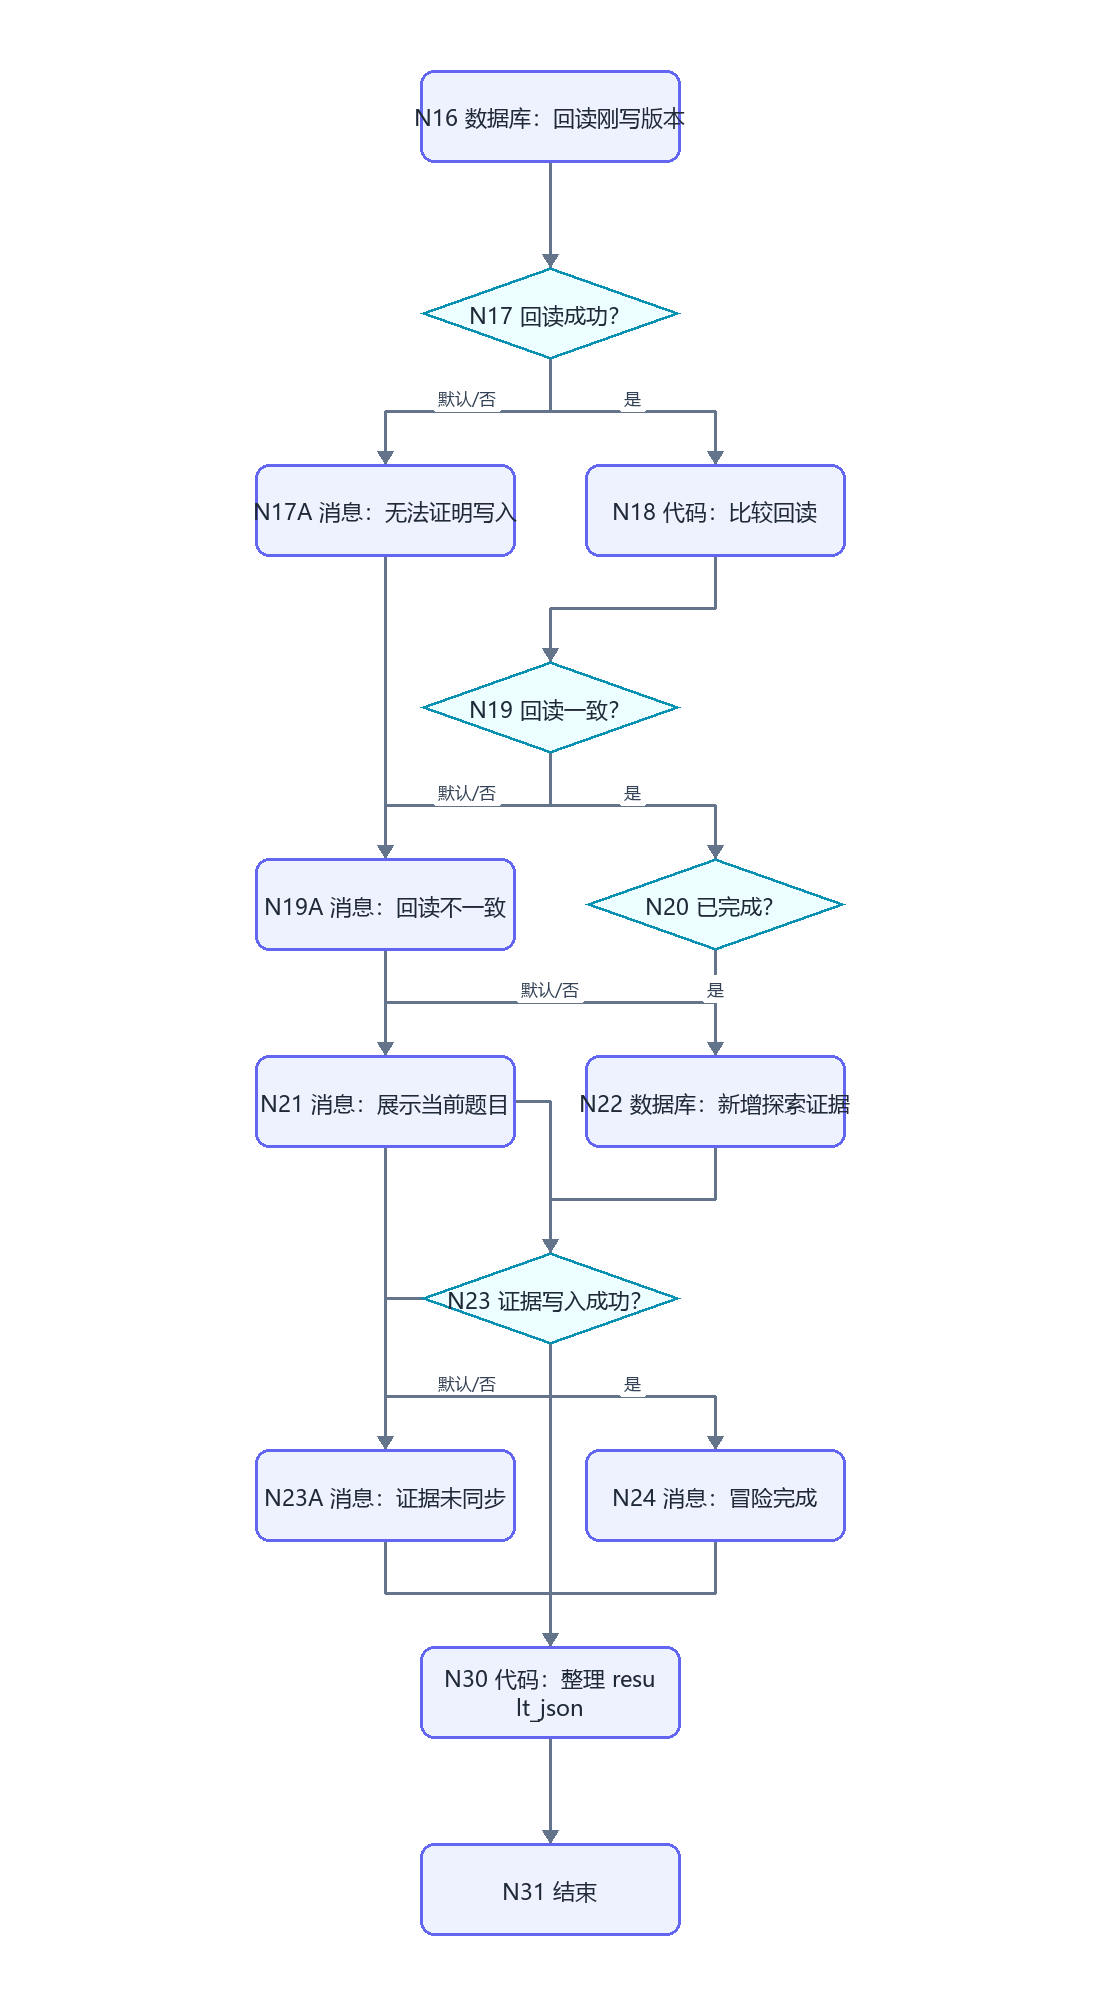
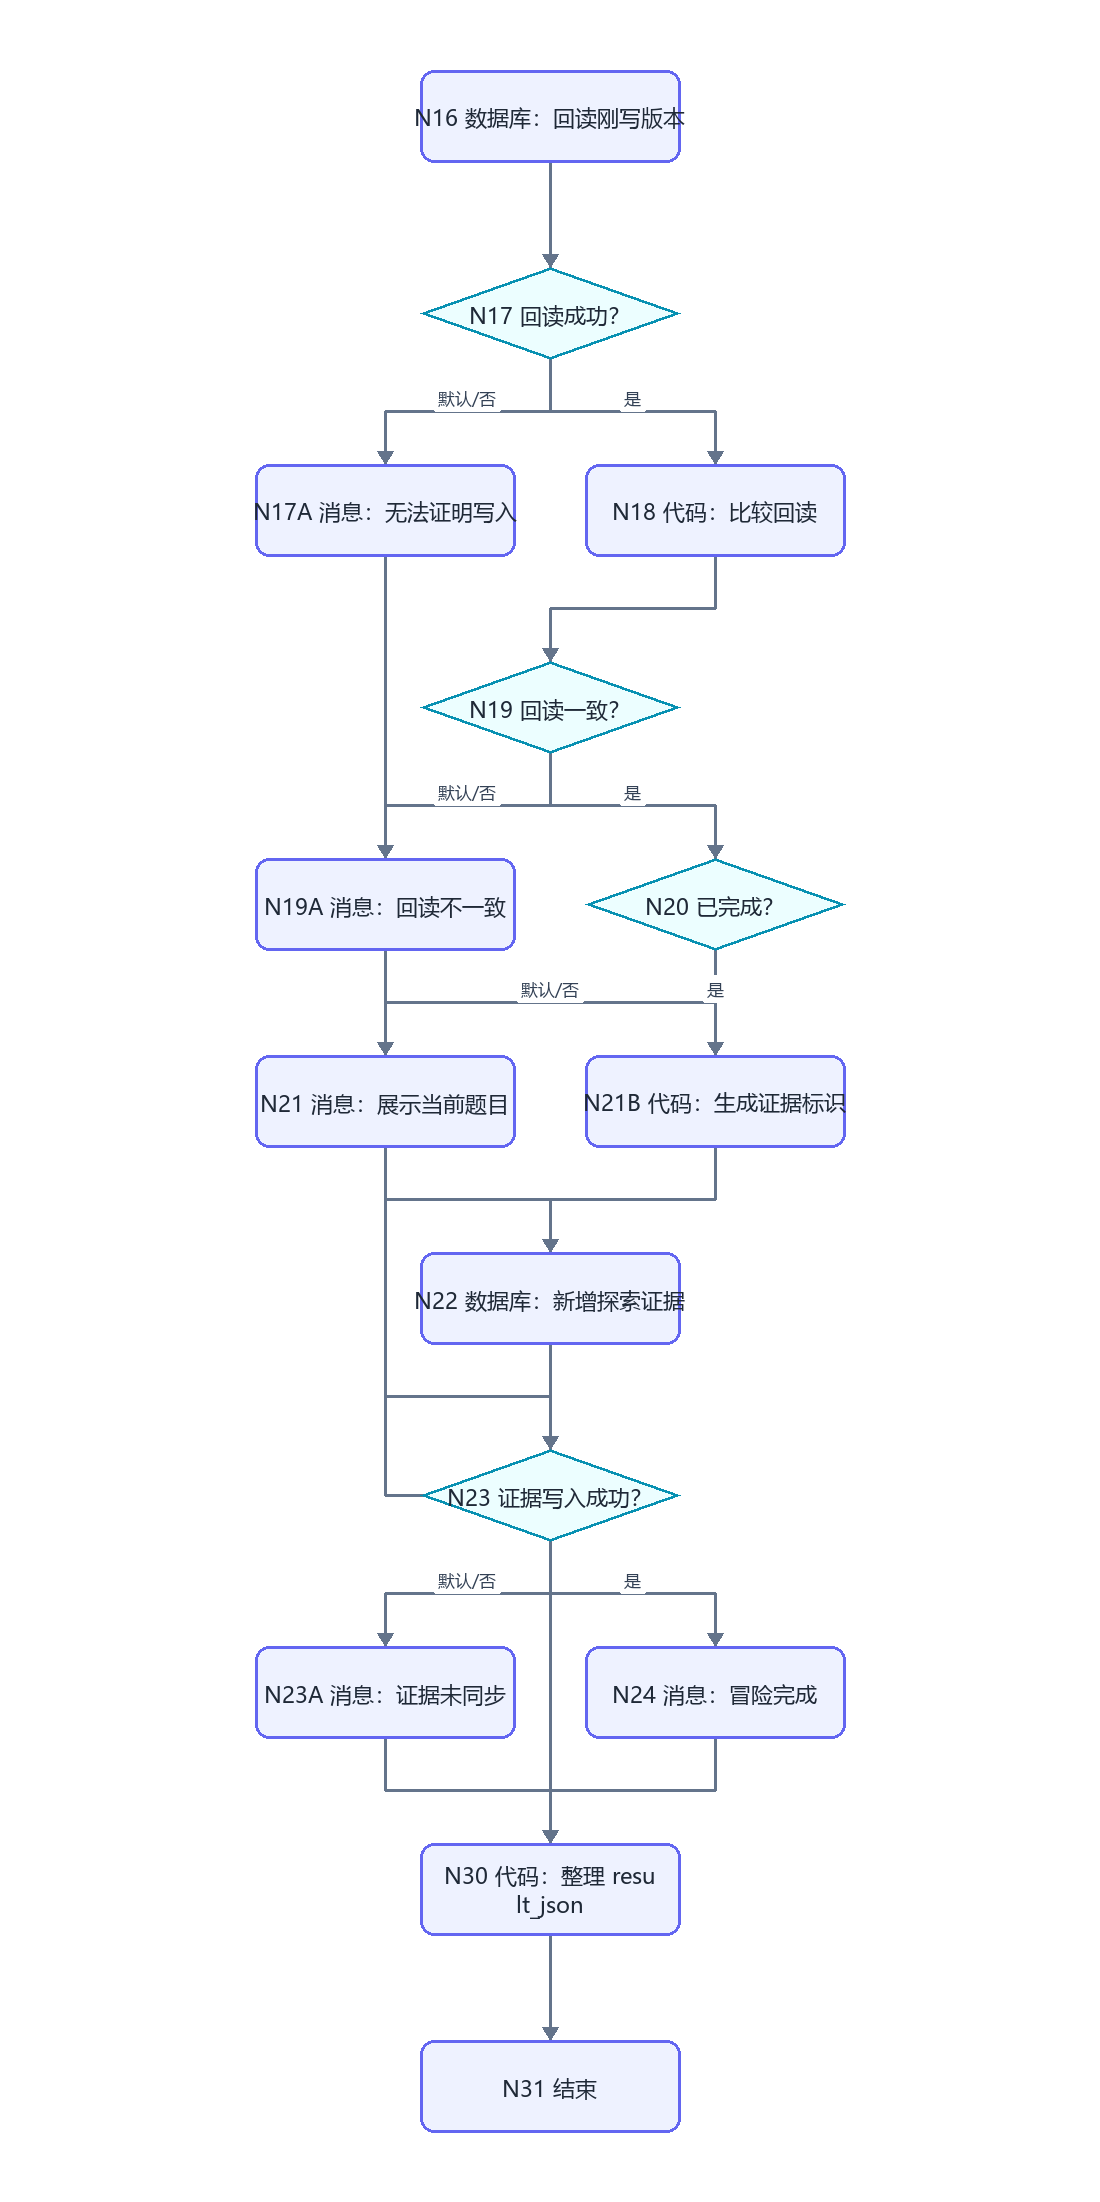
docs: harden workflow state and publish contracts

Changed region(s): [[0.2164, 0.2783, 0.7727, 0.9895], [0.2164, 0.1237, 0.7727, 0.2783], [0.3709, 0.0309, 0.6182, 0.0928]]

diff --git a/scripts/validate_agent_architecture.py b/scripts/validate_agent_architecture.py
@@ -79,6 +79,10 @@ def main() -> int:
             errors.append(f"{path.name}: extractor instructions may contain multiple inputs")
         if re.search(r"(?:复制|填写|粘贴|输入)[^\n]{0,24}(?:confirmation_)?token", text, re.IGNORECASE):
             errors.append(f"{path.name}: asks user to handle a confirmation token")
+        if re.search(r"[\"']awaiting_user[\"']", text):
+            errors.append(f"{path.name}: uses awaiting_user instead of shared awaiting_user_input")
+        if re.search(r"\bstatus[^\n]{0,80}[\"']safety_stop[\"']", text):
+            errors.append(f"{path.name}: uses safety_stop as a result status instead of unsafe_request")
         if re.search(r"```mermaid[\s\S]*?(?:Agent\s*智能决策|工作流节点|MCP\s*工具)[\s\S]*?```", text):
             errors.append(f"{path.name}: child diagram contains nested orchestration")
         for index, sql in enumerate(sql_blocks(text), start=1):

diff --git a/docs/workflows/WF-02-virtual-university.md b/docs/workflows/WF-02-virtual-university.md
@@ -12,7 +12,7 @@ result_output: result_json:String
 
 WF-02 根据已确认画像生成 3～5 个虚拟大学事件。每次调用只做一件事：首次展示一个事件，或结算当前事件并展示下一事件，或完成探索并沉淀结果。用户只说自然语言，例如“我想体验一下大学生活”“我选先参加社团招新”。
 
-返回 `awaiting_user` 时，MAIN 必须结束本轮，不能替用户回答事件。完成后才允许 MAIN 在同一轮继续调用 WF-04。
+返回 `awaiting_user_input` 时，MAIN 必须结束本轮，不能替用户回答事件。完成后才允许 MAIN 在同一轮继续调用 WF-04。
 
 ## 2. 旧画布的最小修改
 
@@ -97,7 +97,8 @@ flowchart TD
     N20 -->|默认/否| N20A["N20A 消息：回读不一致"]
     N20 -->|是| N21{"N21 本轮已完成？"}
     N21 -->|默认/否| N22["N22 消息：展示待答事件"]
-    N21 -->|是| N23["N23 数据库：新增探索证据"]
+    N21 -->|是| N22B["N22B 代码：生成证据标识"]
+    N22B --> N23["N23 数据库：新增探索证据"]
     N23 --> N24{"N24 证据写入成功？"}
     N24 -->|默认/否| N24A["N24A 消息：完成但证据未同步"]
     N24 -->|是| N25["N25 消息：探索完成"]
@@ -454,12 +455,19 @@ def main(rows, expected_state_id, expected_version, expected_completed):
 
 ### 8.3 N23 写入 DB-03 探索证据
 
-先在 N13 同一路线后增加一个简单代码输出 `assessment_id="ev_" + state_id_out`，或直接把前缀和 N13/state_id_out 用文本处理拼成一个 String；N23 的“完整变量列表”只能选择这个上游结果。新增字段：
+N22B 输入 `state_id=N13/state_id_out`：
+
+```python
+def main(state_id):
+    return {"assessment_id": "ev_" + str(state_id)}
+```
+
+输出 `assessment_id:String`。N23 的“完整变量列表”中 assessment_id 只选择 N22B/assessment_id。新增字段：
 
 | 字段 | 值 |
 |---|---|
 | user_key | N00A/user_key |
-| assessment_id | 上游拼好的 `ev_<state_id>` |
+| assessment_id | N22B/assessment_id |
 | simulation_result_json | N13/result_summary |
 | adventure_result_json | `{}` |
 | route_recommendation_json | `{}` |
@@ -504,7 +512,7 @@ def main(input_valid, profile_read_success, has_profile, state_read_success, com
         else:
             status, reply, next_action, error_code = "write_failed", "探索状态已完成，但证据没有同步到推荐库。", "retry_evidence_sync", "evidence_write_failed"
     else:
-        status, reply, next_action = "awaiting_user", str(display_reply), "answer_current_event"
+        status, reply, next_action = "awaiting_user_input", str(display_reply), "answer_current_event"
     result = "{" + '"workflow_id":"WF-02",' + '"status":' + quote(status) + "," + '"reply":' + quote(reply) + "," + '"next_action":' + quote(next_action) + "," + '"error_code":' + quote(error_code) + "}"
     return {"result_json": result}
 ```
@@ -523,7 +531,7 @@ def main(input_valid, profile_read_success, has_profile, state_read_success, com
 
 | 轮次 | user_input 示例 | 必经路线 | 预期数据库/结果 |
 |---|---|---|---|
-| 1 | 我想体验虚拟大学 | N00→N01→N03→N05→N07→N10→N11→N12→N13→N15→N17→N19→N22 | DB-02 version=1、pending 非空；status=awaiting_user |
+| 1 | 我想体验虚拟大学 | N00→N01→N03→N05→N07→N10→N11→N12→N13→N15→N17→N19→N22 | DB-02 version=1、pending 非空；status=awaiting_user_input |
 | 2 | 我会先去社团摊位问清楚时间投入 | N10→N11 结算→N12→N13→N15→N17→N19→N22 | version=2；旧事件只结算一次；出现下一事件 |
 | 3～5 | 对当前事件的自然回答 | 同上 | version 递增，不覆盖历史 |
 | 完成轮 | 对最后事件的回答 | N21 是→N23→N24 是→N25 | DB-02 completed=true；DB-03 有 WF-02 证据；status=completed |
@@ -551,7 +559,7 @@ def main(input_valid, profile_read_success, has_profile, state_read_success, com
 
 发布名称：`ULPS_WF02_VIRTUAL_UNIVERSITY`。工具描述：`在 confirmed 用户画像基础上开始或续接虚拟大学单事件探索；输入内部两字段包装；返回当前事件、完成结果或可处理错误。`
 
-发布后到 MAIN 的“智能决策”节点添加“个人发布的 MCP Server”中的该工具。不要在 WF-02 内增加同类节点。平台审核未通过前，先完成画布调试；审核通过后在“发布管理→详情→Trace”核对 MAIN 传入的仍只有一个字符串参数。
+发布为 MCP Server 后可直接到 MAIN 的“智能决策”节点添加“个人发布的 MCP Server”中的该工具；该内部发布路径不等待公开上架审核。不要在 WF-02 内增加同类节点。MAIN 公开发布到星火/Desk 的审核是另一件事；子工具发布成功后即可在 Trace 核对 MAIN 传入的仍只有一个字符串参数。
 
 ## 12. 验收清单
 

diff --git a/docs/workflows/WF-03-survival-adventure.md b/docs/workflows/WF-03-survival-adventure.md
@@ -13,7 +13,7 @@ result_output: result_json:String
 WF-03 用 4～6 个校园生存情境观察资源分配、协作、抗压、求助和风险判断。它是娱乐化探索，不是临床测评、纪律裁决或现实安全建议。用户每次只回答当前题目；工作流每轮只结算一次。
 
 - 没有 confirmed 画像：返回 `needs_input`，不生成题目。
-- 还有题目：返回 `awaiting_user`，MAIN 结束本轮。
+- 还有题目：返回 `awaiting_user_input`，MAIN 结束本轮。
 - 探索完成且 DB-03 证据写入成功：返回 `completed`，MAIN 才可继续调用 WF-04。
 - 用户表达现实危险、自伤或违法风险：不继续游戏情节，返回安全提示和线下求助建议。
 
@@ -85,7 +85,8 @@ flowchart TD
     N19 -->|默认/否| N19A["N19A 消息：回读不一致"]
     N19 -->|是| N20{"N20 已完成？"}
     N20 -->|默认/否| N21["N21 消息：展示当前题目"]
-    N20 -->|是| N22["N22 数据库：新增探索证据"]
+    N20 -->|是| N21B["N21B 代码：生成证据标识"]
+    N21B --> N22["N22 数据库：新增探索证据"]
     N22 --> N23{"N23 证据写入成功？"}
     N23 -->|默认/否| N23A["N23A 消息：证据未同步"]
     N23 -->|是| N24["N24 消息：冒险完成"]
@@ -328,12 +329,19 @@ def main(rows, expected_state_id, expected_version, expected_completed):
 
 ### 7.3 N22 写 DB-03
 
-用一个上游文本处理拼出 `assessment_id=ev_<N12/state_id_out>`，然后新增：
+N21B 输入 `state_id=N12/state_id_out`：
+
+```python
+def main(state_id):
+    return {"assessment_id": "ev_" + str(state_id)}
+```
+
+输出 `assessment_id:String`。然后 N22 新增：
 
 | 字段 | 值 |
 |---|---|
 | user_key | N00A/user_key |
-| assessment_id | 上游 assessment_id |
+| assessment_id | N21B/assessment_id |
 | simulation_result_json | `{}` |
 | adventure_result_json | N12/result_summary |
 | route_recommendation_json | `{}` |
@@ -369,7 +377,7 @@ def main(input_valid, profile_read_success, has_profile, state_read_success, com
     elif completed_before is True:
         status, reply, next_action = "completed", "大学生存大冒险已完成，不重复新增状态。", "choose_wf02_or_wf04"
     elif safety_stop is True:
-        status, reply, next_action, error_code = "safety_stop", str(display_reply), "seek_real_world_help", "safety_stop"
+        status, reply, next_action, error_code = "unsafe_request", str(display_reply), "seek_real_world_help", "safety_stop"
     elif result_valid is not True:
         status, reply, next_action, error_code = "needs_input", "当前回答无法可靠结算，请直接回答当前题目。", "answer_current_question", "unhandled_answer"
     elif state_write_success is not True or readback_success is not True or readback_matches is not True:
@@ -380,7 +388,7 @@ def main(input_valid, profile_read_success, has_profile, state_read_success, com
         else:
             status, reply, next_action, error_code = "write_failed", "冒险状态已完成，但推荐证据未同步。", "retry_evidence_sync", "evidence_write_failed"
     else:
-        status, reply, next_action = "awaiting_user", str(display_reply), "answer_current_question"
+        status, reply, next_action = "awaiting_user_input", str(display_reply), "answer_current_question"
     result = "{" + '"workflow_id":"WF-03",' + '"status":' + quote(status) + "," + '"reply":' + quote(reply) + "," + '"next_action":' + quote(next_action) + "," + '"error_code":' + quote(error_code) + "}"
     return {"result_json": result}
 ```
@@ -422,7 +430,7 @@ N30 输出 `result_json:String`。N31 回答模式选择“返回参数，由工
 
 发布名称：`ULPS_WF03_SURVIVAL_ADVENTURE`。描述：`基于 confirmed 画像开始或续接安全的大学生存大冒险单题探索，返回当前题目、完成证据或错误状态。`
 
-发布为当前账号的 MCP Server 后，只在 MAIN 的智能决策节点添加它。WF-03 内不添加工具调用节点。审核通过后用“发布管理→详情→Trace”核对每次只处理一个题目，并检查输出是紧凑 JSON 字符串。
+发布为当前账号的 MCP Server 后即可在 MAIN 的智能决策节点添加它；内部 MCP Server 发布不等待公开上架审核。WF-03 内不添加工具调用节点。子工具发布成功后用 Trace 核对每次只处理一个题目，并检查输出是紧凑 JSON 字符串；MAIN 公开发布到星火/Desk 的审核另行进行。
 
 ## 11. 验收清单
 

diff --git a/docs/workflows/WF-07-review-and-recap.md b/docs/workflows/WF-07-review-and-recap.md
@@ -35,9 +35,12 @@ flowchart TD
     N06 -->|是| N07["N07 数据库：读取近期行动"]
     N07 --> N08{"N08 行动读取成功？"}
     N08 -->|默认/否| N08A["N08A 消息：行动读取失败"]
-    N08 -->|是| N09["N09 数据库：读取最近复盘和收束版本"]
-    N09 --> N10{"N10 历史读取成功？"}
-    N10 -->|默认/否| N10A["N10A 消息：历史读取失败"]
+    N08 -->|是| N09A["N09A 数据库：读取最近复盘版本"]
+    N09A --> N09C{"N09C 复盘历史读取成功？"}
+    N09C -->|默认/否| N10A["N10A 消息：历史读取失败"]
+    N09C -->|是| N09B["N09B 数据库：读取最近收束版本"]
+    N09B --> N10{"N10 收束历史读取成功？"}
+    N10 -->|默认/否| N10A
     N10 -->|是| N11["N11 文本处理：拼接唯一模型输入"]
     N00C --> R["转 N30 公共结果"]
     N02A --> R
@@ -132,7 +135,7 @@ ORDER BY create_time DESC
 LIMIT 80;
 ```
 
-N09 需要两个数据库节点串行实现，因为每个节点只能选一张表：N09A 读 DB-07，N09B 再读 DB-11。图中 N09 代表这组节点。
+N09A 与 N09B 是两个串行数据库节点，因为每个节点只能选一张表。N09C 先检查 N09A/isSuccess；成功才执行 N09B。N10 再检查 N09B/isSuccess；任一次失败都到 N10A，成功空数组代表首次复盘，允许继续。
 
 DB-07：
 
@@ -154,7 +157,7 @@ ORDER BY record_version DESC, create_time DESC
 LIMIT 1;
 ```
 
-N10 要检查两次 isSuccess；任一次失败都到 N10A。成功空数组代表首次复盘，允许继续。
+N09C 条件固定为 N09A/isSuccess=true，N10 条件固定为 N09B/isSuccess=true；两者都必须保留默认路线。
 
 ## 4. N11～N15：生成、单输入提取和校验
 
@@ -270,9 +273,11 @@ def q(value):
     return '"' + str(value if value is not None else "").replace("\\", "\\\\").replace('"', '\\"').replace("\n", "\\n").replace("\r", "\\r") + '"'
 
 
-def main(input_valid, prerequisites_ok, result_valid, display_reply,
+def main(input_valid, plan_read, has_plan, tasks_read, actions_read,
+         review_history_read, recap_history_read, result_valid, display_reply,
          review_write, recap_write, review_read, recap_read, both_match):
     status, reply, next_action, error_code = "needs_input", "请先确认主规划。", "confirm_main_plan", "none"
+    prerequisites_ok = plan_read is True and has_plan is True and tasks_read is True and actions_read is True and review_history_read is True and recap_history_read is True
     if input_valid is not True:
         status, reply, next_action, error_code = "validation_failed", "内部输入格式无效。", "retry_same_message", "invalid_envelope"
     elif prerequisites_ok is not True:
@@ -287,7 +292,7 @@ def main(input_valid, prerequisites_ok, result_valid, display_reply,
     return {"result_json": result}
 ```
 
-N30 输出 `result_json:String`；N31 只返回该参数。
+N30 形参映射：input_valid=N00A/input_valid；plan_read/has_plan=N01/isSuccess、N03/has_plan；tasks_read=N05/isSuccess；actions_read=N07/isSuccess；review_history_read=N09A/isSuccess；recap_history_read=N09B/isSuccess；result_valid/display_reply=N14；review_write/recap_write=N16/N18 的 isSuccess；review_read/recap_read=N20/N22 的 isSuccess；both_match=N24/both_match。输出 `result_json:String`；N31 只返回该参数。
 
 ## 7. 调试指南
 

diff --git a/docs/workflows/WF-06-semester-actions.md b/docs/workflows/WF-06-semester-actions.md
@@ -310,17 +310,19 @@ def q(value):
     return '"' + str(value if value is not None else "").replace("\\", "\\\\").replace('"', '\\"').replace("\n", "\\n").replace("\r", "\\r") + '"'
 
 
-def main(input_valid, prerequisites_ok, model_valid, action, display_reply,
+def main(input_valid, plan_read, has_plan, tasks_read, logs_read,
+         model_valid, action, display_reply,
          task_write_ok, task_read_ok, task_match, log_write_ok, log_read_ok,
          log_match, evidence_write_ok, completion_write_ok, completion_read_ok,
          completion_match):
     status, reply, next_action, error_code = "needs_input", "请说明具体任务或已发生的行动。", "clarify_task_or_action", "none"
+    prerequisites_ok = plan_read is True and has_plan is True and tasks_read is True and logs_read is True
     if input_valid is not True:
         status, reply, next_action, error_code = "validation_failed", "内部输入格式无效。", "retry_same_message", "invalid_envelope"
     elif prerequisites_ok is not True:
         status, reply, next_action = "needs_input", "请先确认一份 active 主规划。", "confirm_main_plan"
     elif action == "safety_stop":
-        status, reply, next_action, error_code = "safety_stop", str(display_reply), "seek_real_world_help", "safety_stop"
+        status, reply, next_action, error_code = "unsafe_request", str(display_reply), "seek_real_world_help", "safety_stop"
     elif model_valid is not True or action == "needs_input":
         status, reply, next_action = "needs_input", str(display_reply), "provide_task_object_or_evidence"
     elif action == "list_tasks":
@@ -344,7 +346,7 @@ def main(input_valid, prerequisites_ok, model_valid, action, display_reply,
     return {"result_json": result}
 ```
 
-`prerequisites_ok` 由 N01/isSuccess、N03/has_plan、N05/isSuccess、N07/isSuccess 合并。N40 输出 `result_json:String`，N41 只返回这一项。
+N40 形参映射：input_valid=N00A/input_valid；plan_read=N01/isSuccess；has_plan=N03/has_plan；tasks_read=N05/isSuccess；logs_read=N07/isSuccess；model_valid/action/display_reply=N12 对应输出；普通任务写入/回读/比较=N14/N16/N18；普通日志=N20/N22/N24；完成路线=N26/N28/N30/N32。N40 输出 `result_json:String`，N41 只返回这一项。
 
 ## 8. 调试指南
 

diff --git a/docs/workflows/WF-04-path-recommendation.md b/docs/workflows/WF-04-path-recommendation.md
@@ -481,7 +481,7 @@ def main(input_valid, profile_read_success, has_profile, simulation_read_success
 
 发布名称：`ULPS_WF04_FIVE_PATH_RECOMMENDATION`。描述：`读取 confirmed 画像与至少一种已完成 WFB 探索证据，检索 KB-01，生成可解释的五路径推荐并保存回读。`
 
-发布为当前账号 MCP Server 后添加到 MAIN。WF-04 内不调用其他工具。审核通过后从“发布管理→详情→Trace”检查：MAIN 只传一个字符串；WF-04 自己读取证据；只做过一种探索时仍能完成但 confidence=medium。
+发布为当前账号 MCP Server 后即可添加到 MAIN；内部 MCP Server 发布不等待公开上架审核。WF-04 内不调用其他工具。子工具发布成功后从 Trace 检查：MAIN 只传一个字符串；WF-04 自己读取证据；只做过一种探索时仍能完成但 confidence=medium。MAIN 公开发布到星火/Desk 的审核另行进行。
 
 ## 11. 验收清单
 

diff --git a/docs/workflows/WF-09-decision-trial.md b/docs/workflows/WF-09-decision-trial.md
@@ -285,7 +285,7 @@ def main(input_valid, read_success, history_success, model_valid, action,
     elif read_success is not True or history_success is not True:
         status, reply, next_action, error_code = "read_failed", "暂时无法读取试错状态。", "retry_later", "read_failed"
     elif safety_stop is True:
-        status, reply, next_action, error_code = "safety_stop", str(display_reply), "seek_professional_help", "safety_stop"
+        status, reply, next_action, error_code = "unsafe_request", str(display_reply), "seek_professional_help", "safety_stop"
     elif model_valid is not True or action == "needs_input":
         status, reply, next_action = "needs_input", str(display_reply), "clarify_trial_action"
     elif action in ["analyze", "show_status"]: